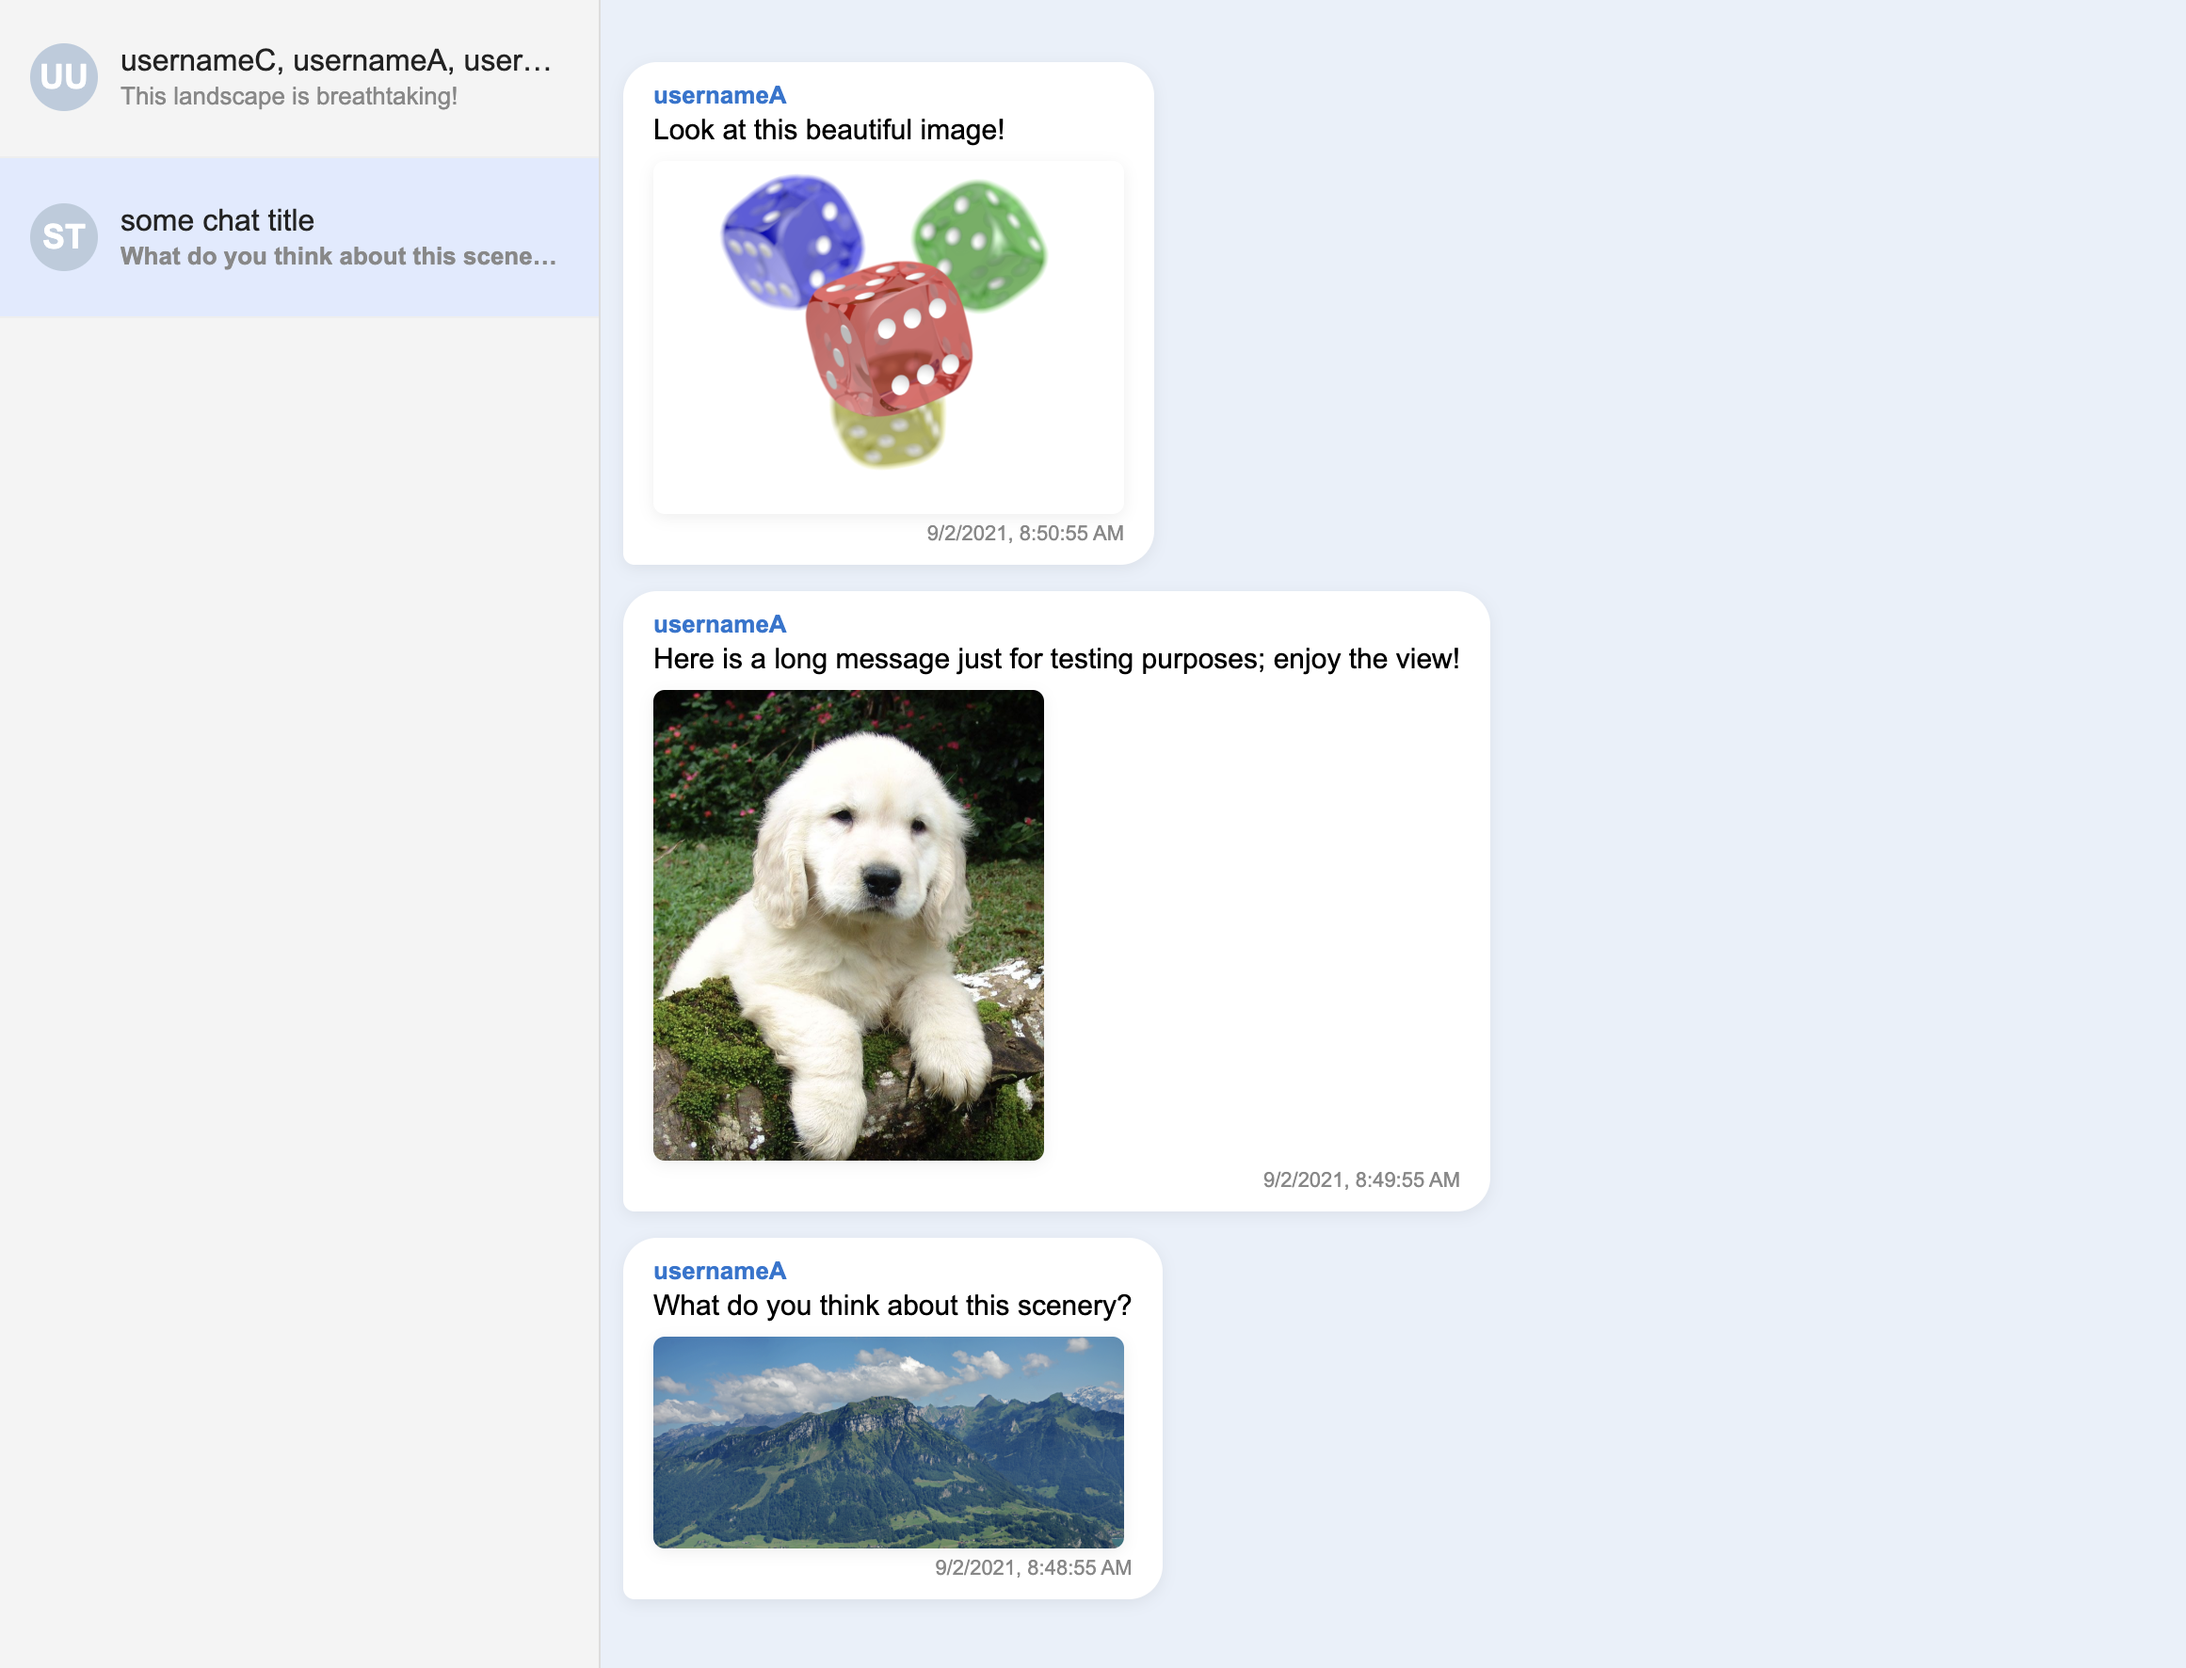
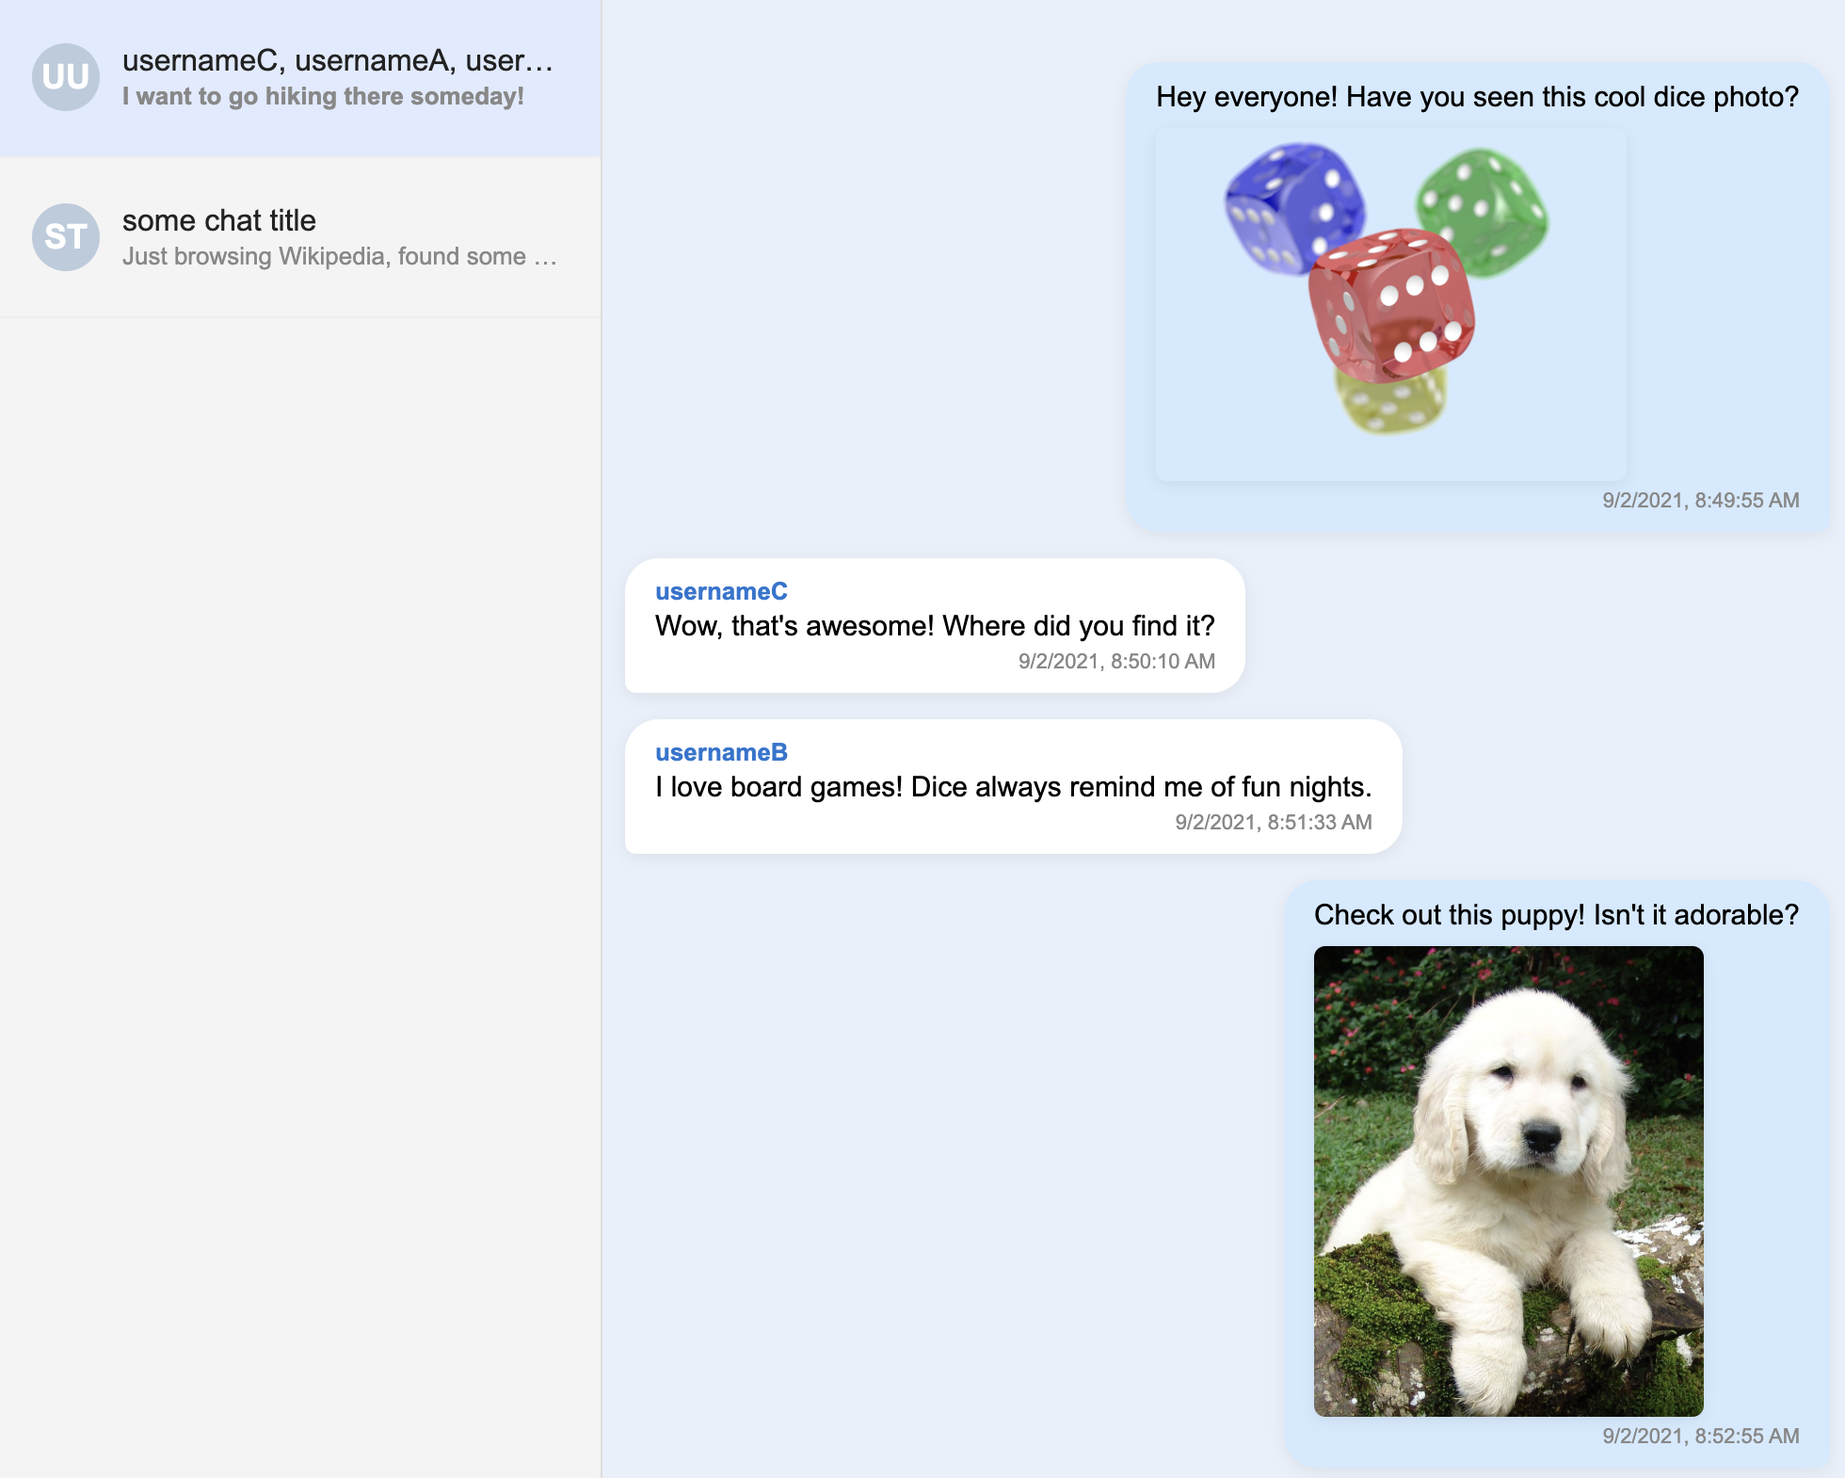
Bye Bye Bye

diff --git a/parser.js b/parser.js
@@ -25,6 +25,7 @@ let allChats = [];      // Array of all chat objects
 let chatMap = {};       // Map from chat ID to chat object
 let messagesByChat = {}; // Map from chat ID to array of messages
 let mediaFiles = {};    // Map from media filename to media file path
+let MY_ID = null; // Will be set from messages.json
 
 // Returns initials from a display name (e.g., 'John Doe' -> 'JD')
 function getInitials(name) {
@@ -77,6 +78,11 @@ async function main() {
   } catch (e) {
     document.getElementById('app').innerHTML = '<div style="margin:auto">Failed to load messages.json. Open index.html via a local server.</div>';
     return;
+  }
+
+  // Set MY_ID from userId in messages.json
+  if (data && data.userId) {
+    MY_ID = data.userId;
   }
 
   // 2. Index chats and messages from the loaded data
@@ -156,28 +162,37 @@ function renderMessages(chatId) {
   const box = document.getElementById('messages');
   box.innerHTML = '';
   msgs.forEach(msg => {
+    const isOwn = msg.from === MY_ID; // Is this message sent by the current user?
     const row = document.createElement('div');
-    row.className = 'message-row';
+    row.className = 'message-row ' + (isOwn ? 'own' : 'other');
     const bubble = document.createElement('div');
     bubble.className = 'bubble';
-    const author = document.createElement('span');
-    author.className = 'author';
-    author.textContent = msg.displayName || msg.from || '';
-    bubble.appendChild(author);
+    // Show author only for messages not sent by the current user
+    if (!isOwn) {
+      const author = document.createElement('span');
+      author.className = 'author';
+      author.textContent = msg.displayName || msg.from || '';
+      bubble.appendChild(author);
+    }
+    // Message content (may include HTML and images)
     let content = msg.content || '';
+    // Replace links to images with <img> tags
     content = content.replace(/<a href=\"(https?:[^\"]+)\"[^>]*>[^<]*<\/a>/g, (m, url) => {
       if (url.match(/\.(jpg|jpeg|png|gif)$/i)) {
         return `<img src="${url}" alt="image" />`;
       }
       return `<a href="${url}" target="_blank">${url}</a>`;
     });
+    // Insert images from media index if referenced
     const mediaMatch = content.match(/OriginalName v=\"([^\"]+)\"/);
     if (mediaMatch && mediaFiles[mediaMatch[1]]) {
       content += `<br><img src="${mediaFiles[mediaMatch[1]]}" alt="media" />`;
     }
+    // Add message content to the bubble
     const cont = document.createElement('span');
     cont.innerHTML = content;
     bubble.appendChild(cont);
+    // Add message time
     const time = document.createElement('span');
     time.className = 'time';
     time.textContent = formatDate(msg.originalarrivaltime || msg.version);
